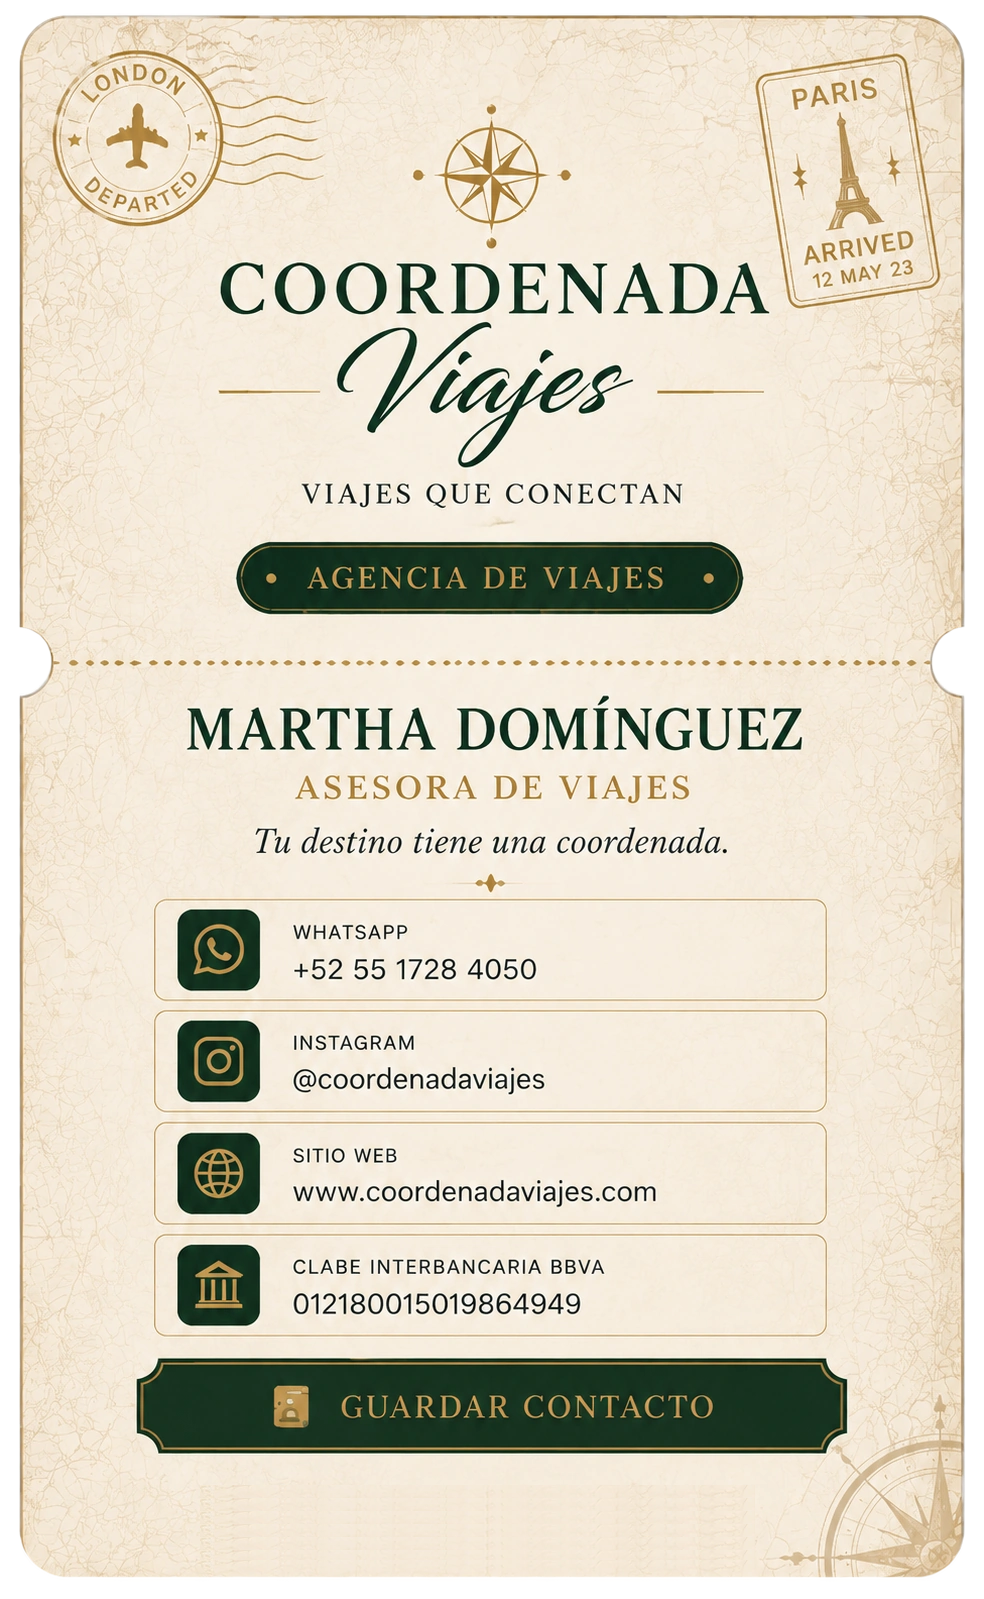
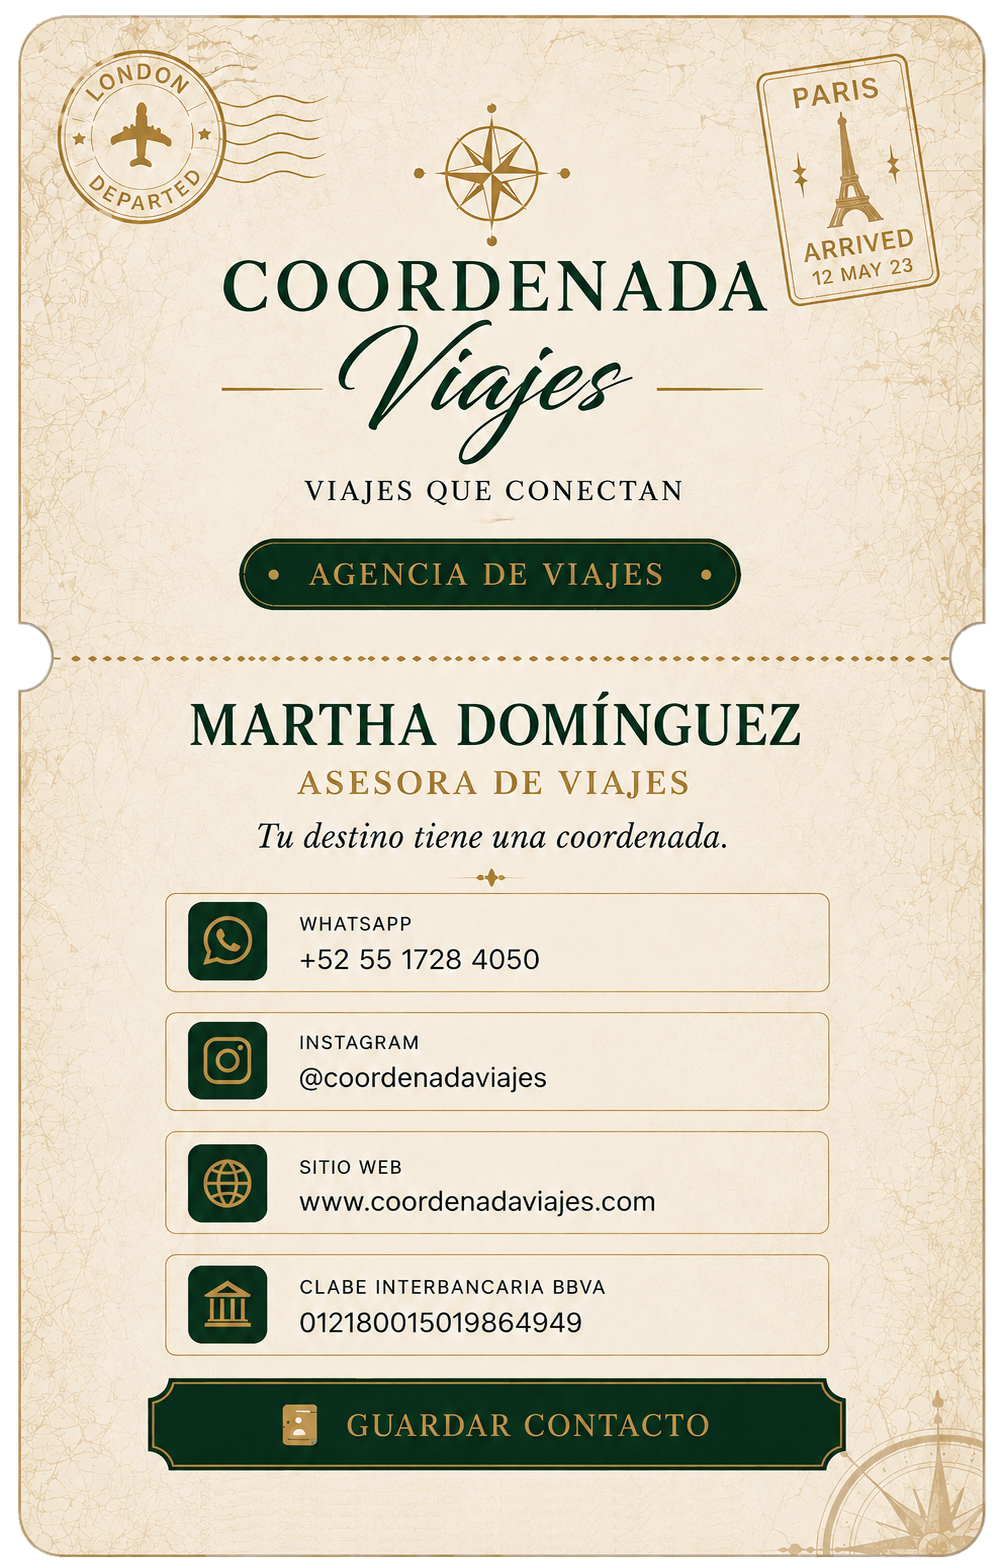
Fix bottom spacing on Coordenada Viajes card (locked artwork rebuild)
- Replace card artwork with corrected LOCKED assets (compass/flourish
  repositioned to close the oversized empty area below Guardar Contacto)
- Re-add transparent alpha channel outside the rounded card silhouette
  (delivered assets had opaque white canvas fill, which showed as a
  visible white box on the page background)
- New aspect ratio 1003x1568 (was 984x1599); update .cv-card
  aspect-ratio, srcset width hint, and all hotspot coordinates to match

diff --git a/tarjeta-martha-cv.html b/tarjeta-martha-cv.html
@@ -83,7 +83,7 @@
     .cv-card {
       position: relative;
       width: min(calc(100vw - 24px), 430px);
-      aspect-ratio: 984 / 1599;
+      aspect-ratio: 1003 / 1568;
       margin-inline: auto;
     }
 
@@ -141,34 +141,34 @@
     <img
       class="cv-card-art"
       src="images/coordenada-card/coordenada-card-approved-exact-430.webp"
-      srcset="images/coordenada-card/coordenada-card-approved-exact-430.webp 430w, images/coordenada-card/coordenada-card-approved-exact.webp 984w"
+      srcset="images/coordenada-card/coordenada-card-approved-exact-430.webp 430w, images/coordenada-card/coordenada-card-approved-exact.webp 1003w"
       sizes="(max-width: 430px) 100vw, 430px"
       alt=""
       draggable="false"
     >
 
-    <!-- transparent interactive overlays only; positions measured from the locked 984x1599 reference -->
+    <!-- transparent interactive overlays only; positions measured from the locked 1003x1568 reference (2026-08-26 rebuild) -->
 
     <a class="hotspot" href="https://wa.me/5215517284050" target="_blank" rel="noopener noreferrer"
-       style="left:15.2439%; top:54.9093%; width:66.7683%; height:6.1914%;"
+       style="left:16.4506%; top:56.9515%; width:66.2014%; height:6.2500%;"
        aria-label="WhatsApp +52 55 1728 4050"></a>
 
     <a class="hotspot" href="https://www.instagram.com/coordenada.viajes/" target="_blank" rel="noopener noreferrer"
-       style="left:15.2439%; top:61.7261%; width:66.7683%; height:6.1914%;"
+       style="left:16.4506%; top:64.5408%; width:66.2014%; height:6.2500%;"
        aria-label="Instagram @coordenadaviajes"></a>
 
     <a class="hotspot" href="https://coordenadaviajes.com" target="_blank" rel="noopener noreferrer"
-       style="left:15.2439%; top:68.5428%; width:66.7683%; height:6.1914%;"
+       style="left:16.4506%; top:72.1301%; width:66.1017%; height:6.5051%;"
        aria-label="Sitio web coordenadaviajes.com"></a>
 
     <button type="button" class="hotspot" onclick="copyClabeCV(this)"
-       style="left:15.2439%; top:75.3596%; width:66.7683%; height:6.1914%;"
+       style="left:16.4506%; top:79.9745%; width:66.2014%; height:6.4413%;"
        aria-label="Copiar CLABE interbancaria BBVA 012180015019864949">
       <span class="sr-only" id="clabe-cv">012180015019864949</span>
     </button>
 
     <button type="button" class="hotspot" onclick="saveContactCV()"
-       style="left:13.7195%; top:82.9894%; width:70.3252%; height:5.6911%;"
+       style="left:14.7557%; top:87.9464%; width:69.4915%; height:5.7398%;"
        aria-label="Guardar contacto"></button>
 
     <p class="copy-toast" id="copy-toast" role="status" aria-live="polite">¡CLABE copiada!</p>
